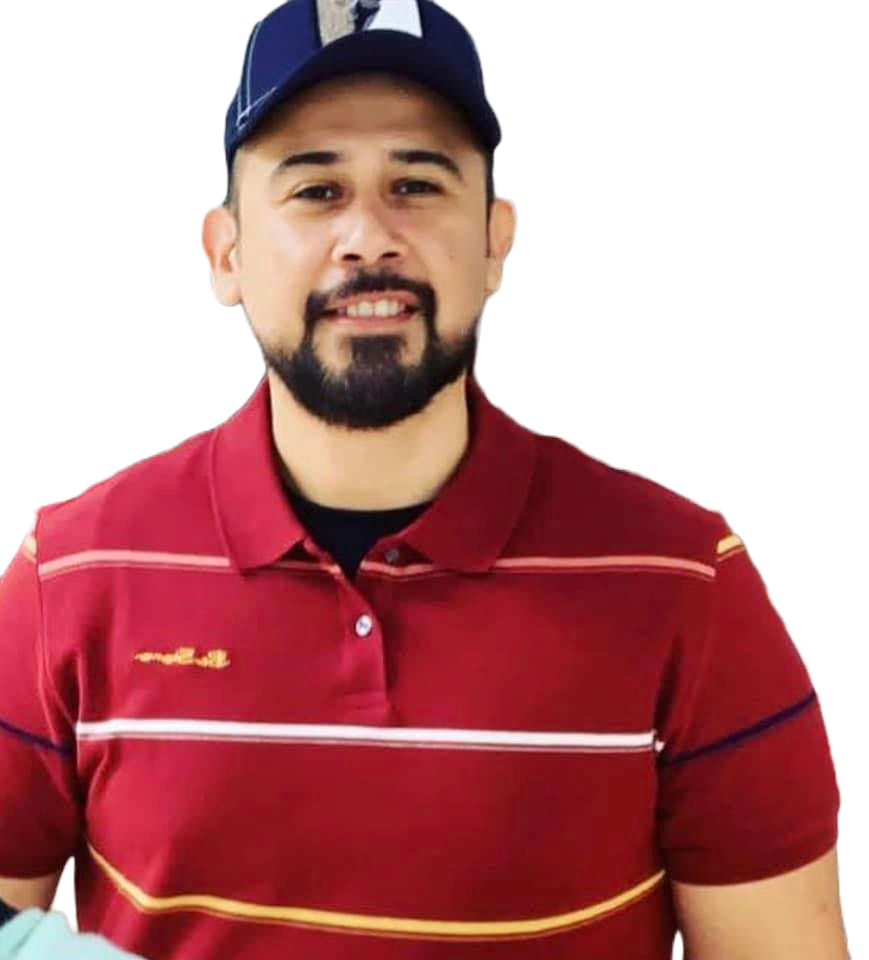
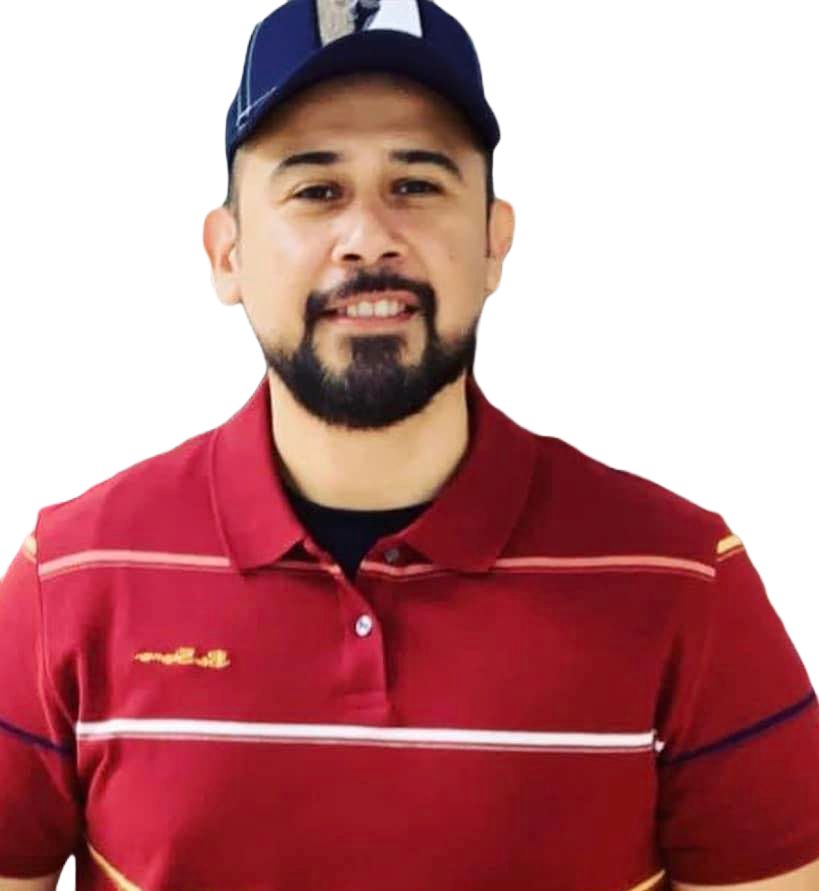
updating picture edited

diff --git a/index.html b/index.html
@@ -36,7 +36,7 @@
    <nav class="navbar">
       <a href="#home" data-src="images/ErickEstrada2023-BW.jpg">home</a>
       <a href="#about" data-src="images/ErickEstrada2023-BW.jpg">about</a>
-      
+
       <a href="#projects" data-src="images/ErickEstrada2023-BW.jpg">projects</a>
       <a href="#contact" data-src="images/ErickEstrada2023-BW.jpg">contact</a>
    </nav>
@@ -52,7 +52,7 @@
       <h3>hi, my name is</h3>
       <h3 class="home-text">Erick Alberto Estrada</h3>
       <h3>i am a Web developer</h3>
-      <img src="images/ErickEstrada2023-Blur.png" class="home-img" alt="">
+      <img src="images/ErickEstrada2023-Blur.png" width="150" height="150" class="home-img" alt="">
       <div class="wave"></div>
       <div class="wave wave-2"></div>
       <div class="wave wave-3"></div>
@@ -70,20 +70,20 @@
          <div class="box">
             <h3 class="title">Languages</h3>
             <div class="progress progress-1">
-               <h3> HTML 5  </h3>
+               <h3> HTML 5 </h3>
                <div class="bar"><span></span></div>
             </div>
             <div class="progress progress-2">
-               <h3> CSS 3  </h3>
+               <h3> CSS 3 </h3>
                <div class="bar"><span></span></div>
             </div>
             <div class="progress progress-3">
-               <h3> JavaScript  </h3>
+               <h3> JavaScript </h3>
                <div class="bar"><span></span></div>
             </div>
 
             <div class="progress progress-4">
-               <h3> Python  </h3>
+               <h3> Python </h3>
                <div class="bar"><span></span></div>
             </div>
          </div>
@@ -209,8 +209,9 @@
             <div class="content">
                <i class="fas fa-info"></i>
                <h3>Neigborhood website</h3>
-               
-               <a href="https://front-end-lab.netlify.app/myneighborhood.html" target="_blank" class="btn">Click Here to Watch my Project</a>
+
+               <a href="https://front-end-lab.netlify.app/myneighborhood.html" target="_blank" class="btn">Click Here to
+                  Watch my Project</a>
             </div>
          </div>
 
@@ -219,8 +220,9 @@
             <div class="content">
                <i class="fas fa-info"></i>
                <h3>Freelance Web Developer Website -SPANISH</h3>
-               
-               <a href="https://personalweberick40.netlify.app/" target="_blank" class="btn">Click Here to Watch my Project</a>
+
+               <a href="https://personalweberick40.netlify.app/" target="_blank" class="btn">Click Here to Watch my
+                  Project</a>
             </div>
          </div>
 
@@ -229,8 +231,9 @@
             <div class="content">
                <i class="fas fa-info"></i>
                <h3>Profile Website</h3>
-               
-               <a href="https://front-end-lab.netlify.app/profile.html" target="_blank" class="btn">Click Here to Watch my Project</a>
+
+               <a href="https://front-end-lab.netlify.app/profile.html" target="_blank" class="btn">Click Here to Watch
+                  my Project</a>
             </div>
          </div>
 
@@ -240,7 +243,8 @@
                <i class="fas fa-info"></i>
                <h3>Foundations Capstone Project - GAMEUP!</h3>
                <!-- <p>link here</p> -->
-               <a href="https://github.com/erickdallas30/Foundations-Capstone-Project" target="_blank" class="btn">Click Here to Watch my Project</a>
+               <a href="https://github.com/erickdallas30/Foundations-Capstone-Project" target="_blank" class="btn">Click
+                  Here to Watch my Project</a>
             </div>
          </div>
 
@@ -249,8 +253,9 @@
             <div class="content">
                <i class="fas fa-info"></i>
                <h3>WatchList React APP</h3>
-               
-               <a href="https://github.com/erickdallas30/erickdallas30-REACT-movie-watchlist-app" target="_blank" class="btn">Click Here to Watch my Project</a>
+
+               <a href="https://github.com/erickdallas30/erickdallas30-REACT-movie-watchlist-app" target="_blank"
+                  class="btn">Click Here to Watch my Project</a>
             </div>
          </div>
 
@@ -259,12 +264,13 @@
             <div class="content">
                <i class="fas fa-info"></i>
                <h3>Tic-Tac-Toe React APP</h3>
-               
-               <a href="https://github.com/erickdallas30/REACT-app-tic-tac-toe" target="_blank" class="btn">Click Here to Watch my Project</a>
+
+               <a href="https://github.com/erickdallas30/REACT-app-tic-tac-toe" target="_blank" class="btn">Click Here
+                  to Watch my Project</a>
             </div>
          </div>
 
-         
+
 
       </div>
 
@@ -294,7 +300,7 @@
 
    <section class="footer">
 
-      <div class="share">         
+      <div class="share">
          <a href="https://github.com/erickdallas30" target="_blank" class="fab fa-github"></a>
          <a href="https://www.linkedin.com/in/erick-estrada-a0495a196/" target="_blank" class="fab fa-linkedin"></a>
       </div>
@@ -302,7 +308,7 @@
       <div class="link">
          <a class="btn" href="#home">home</a>
          <a class="btn" href="#about">about</a>
-         
+
          <a class="btn" href="#projects">projects</a>
          <a class="btn" href="#contact">contact</a>
       </div>

diff --git a/css/style.css b/css/style.css
@@ -549,13 +549,6 @@ section{
    padding:.5rem 1.5rem;
 }
 
-
-
-
-
-
-
-
 /* media queries  */
 
 @media (max-width:1200px){
